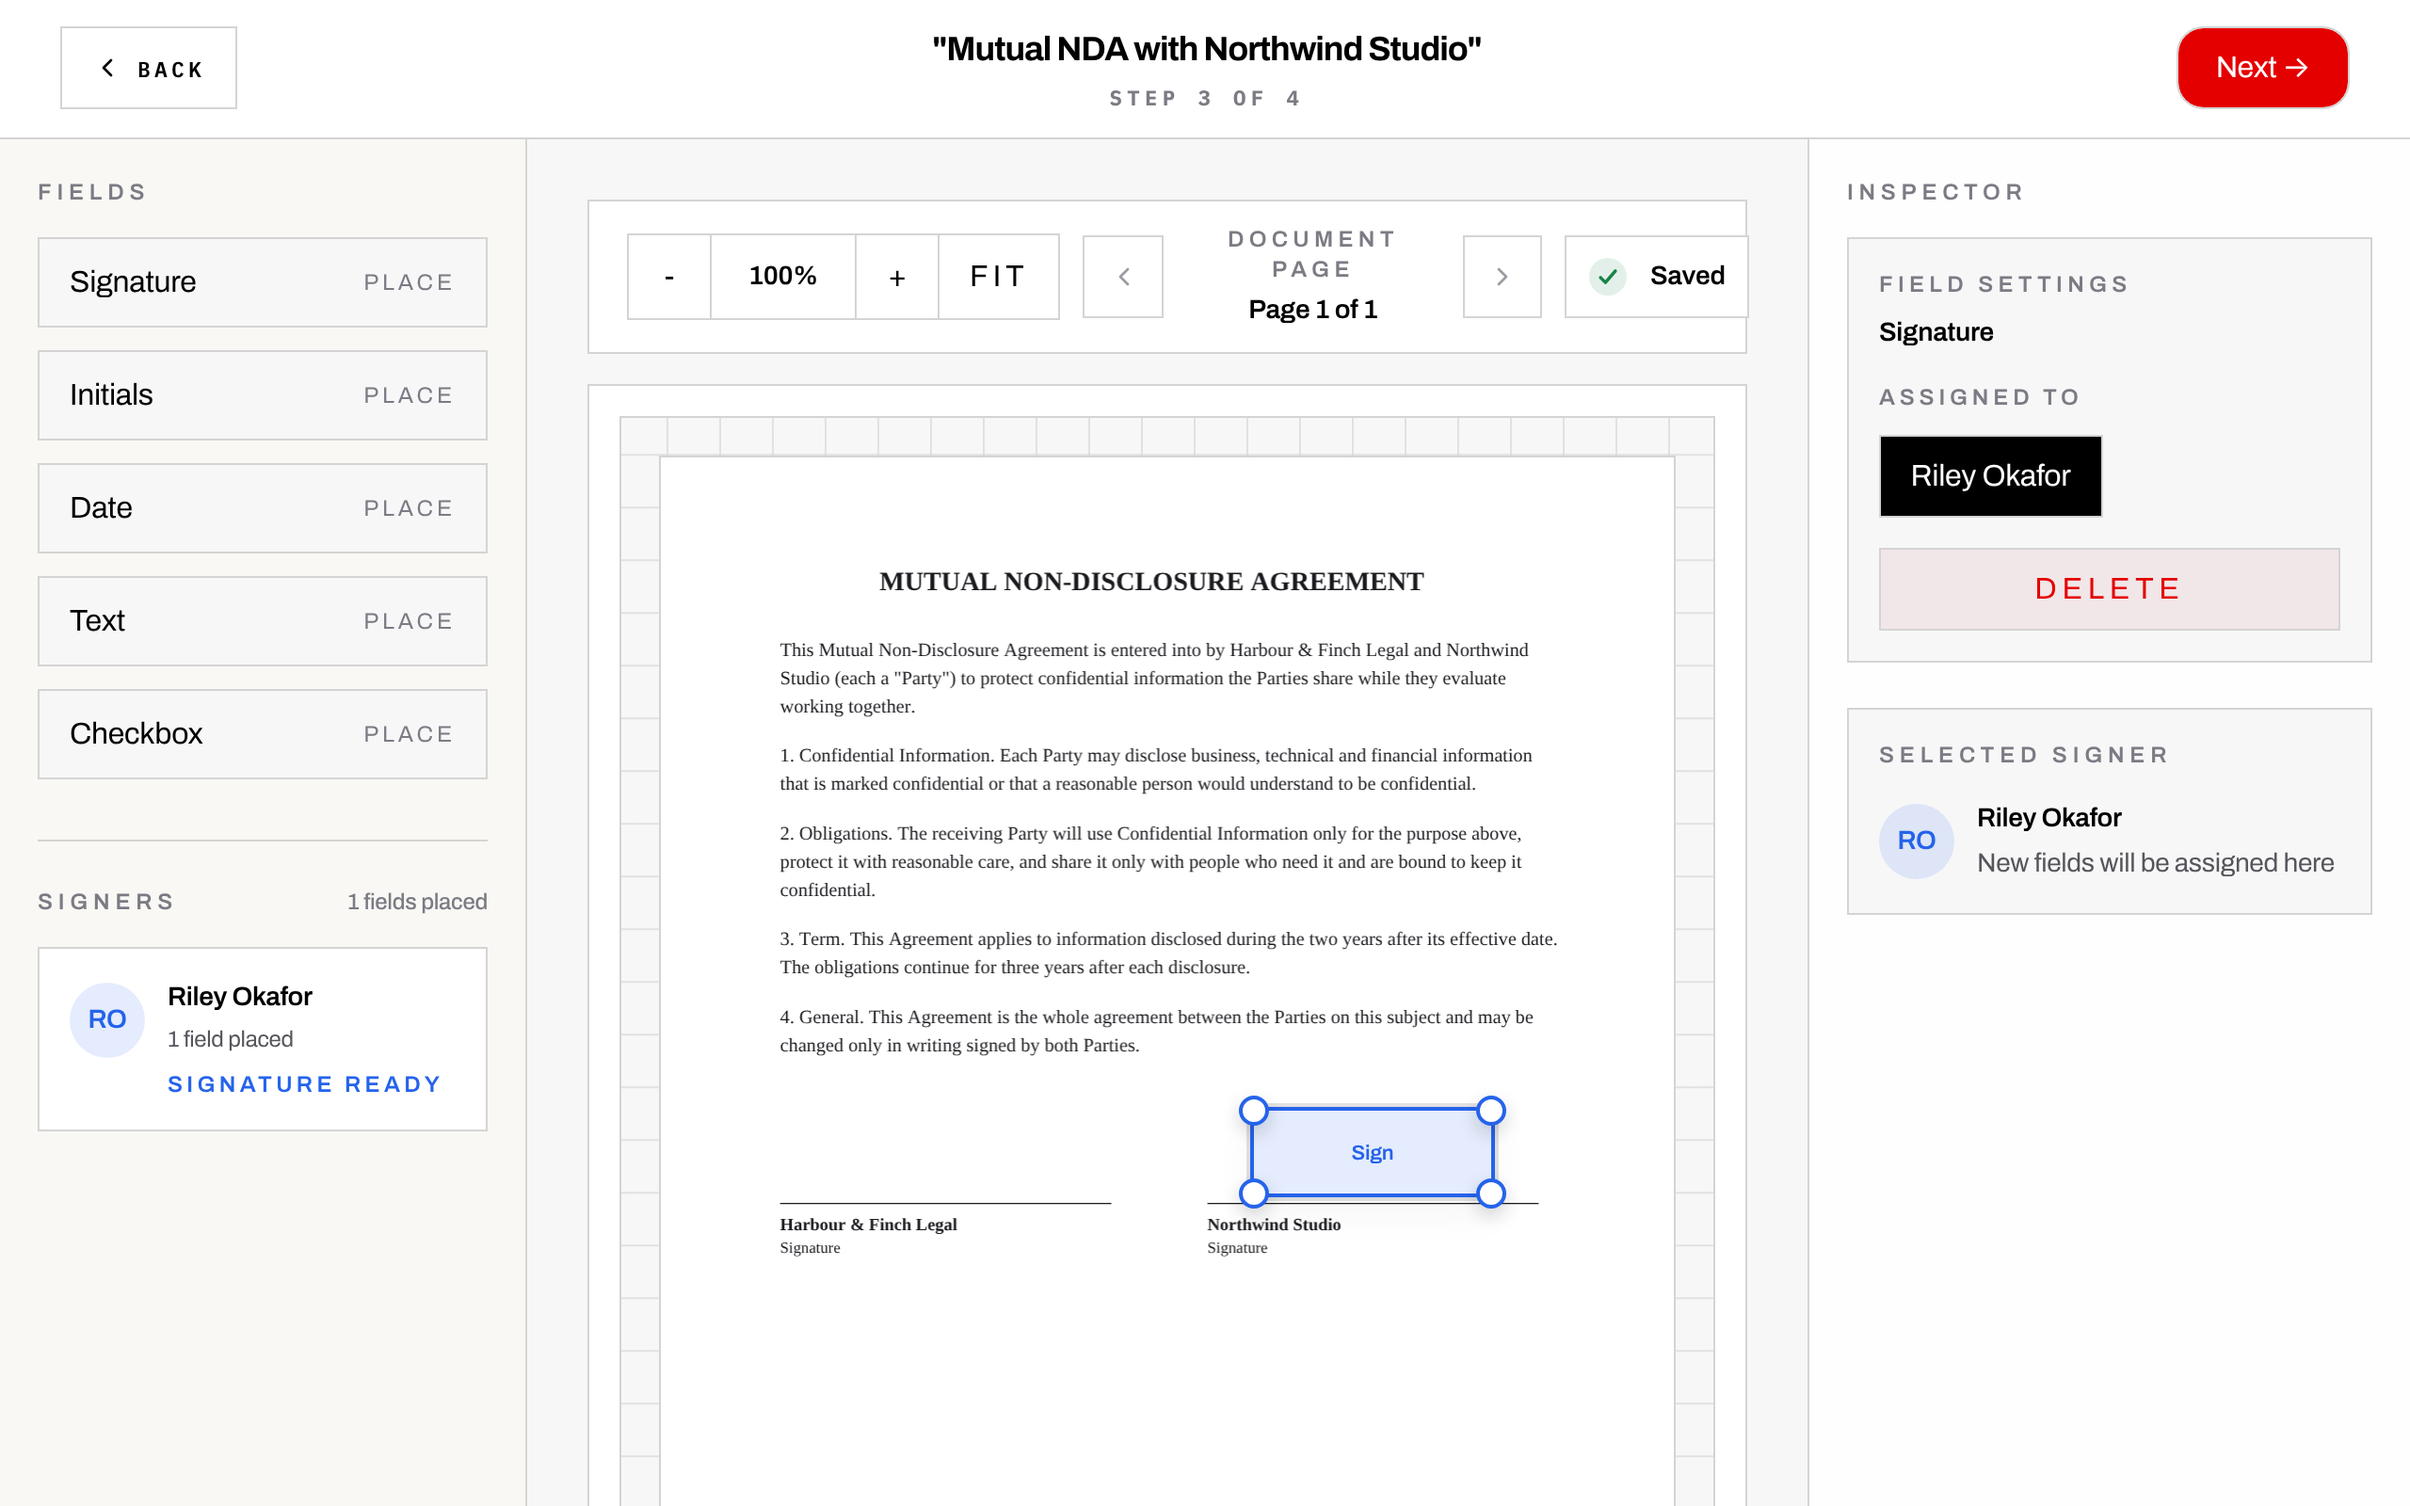
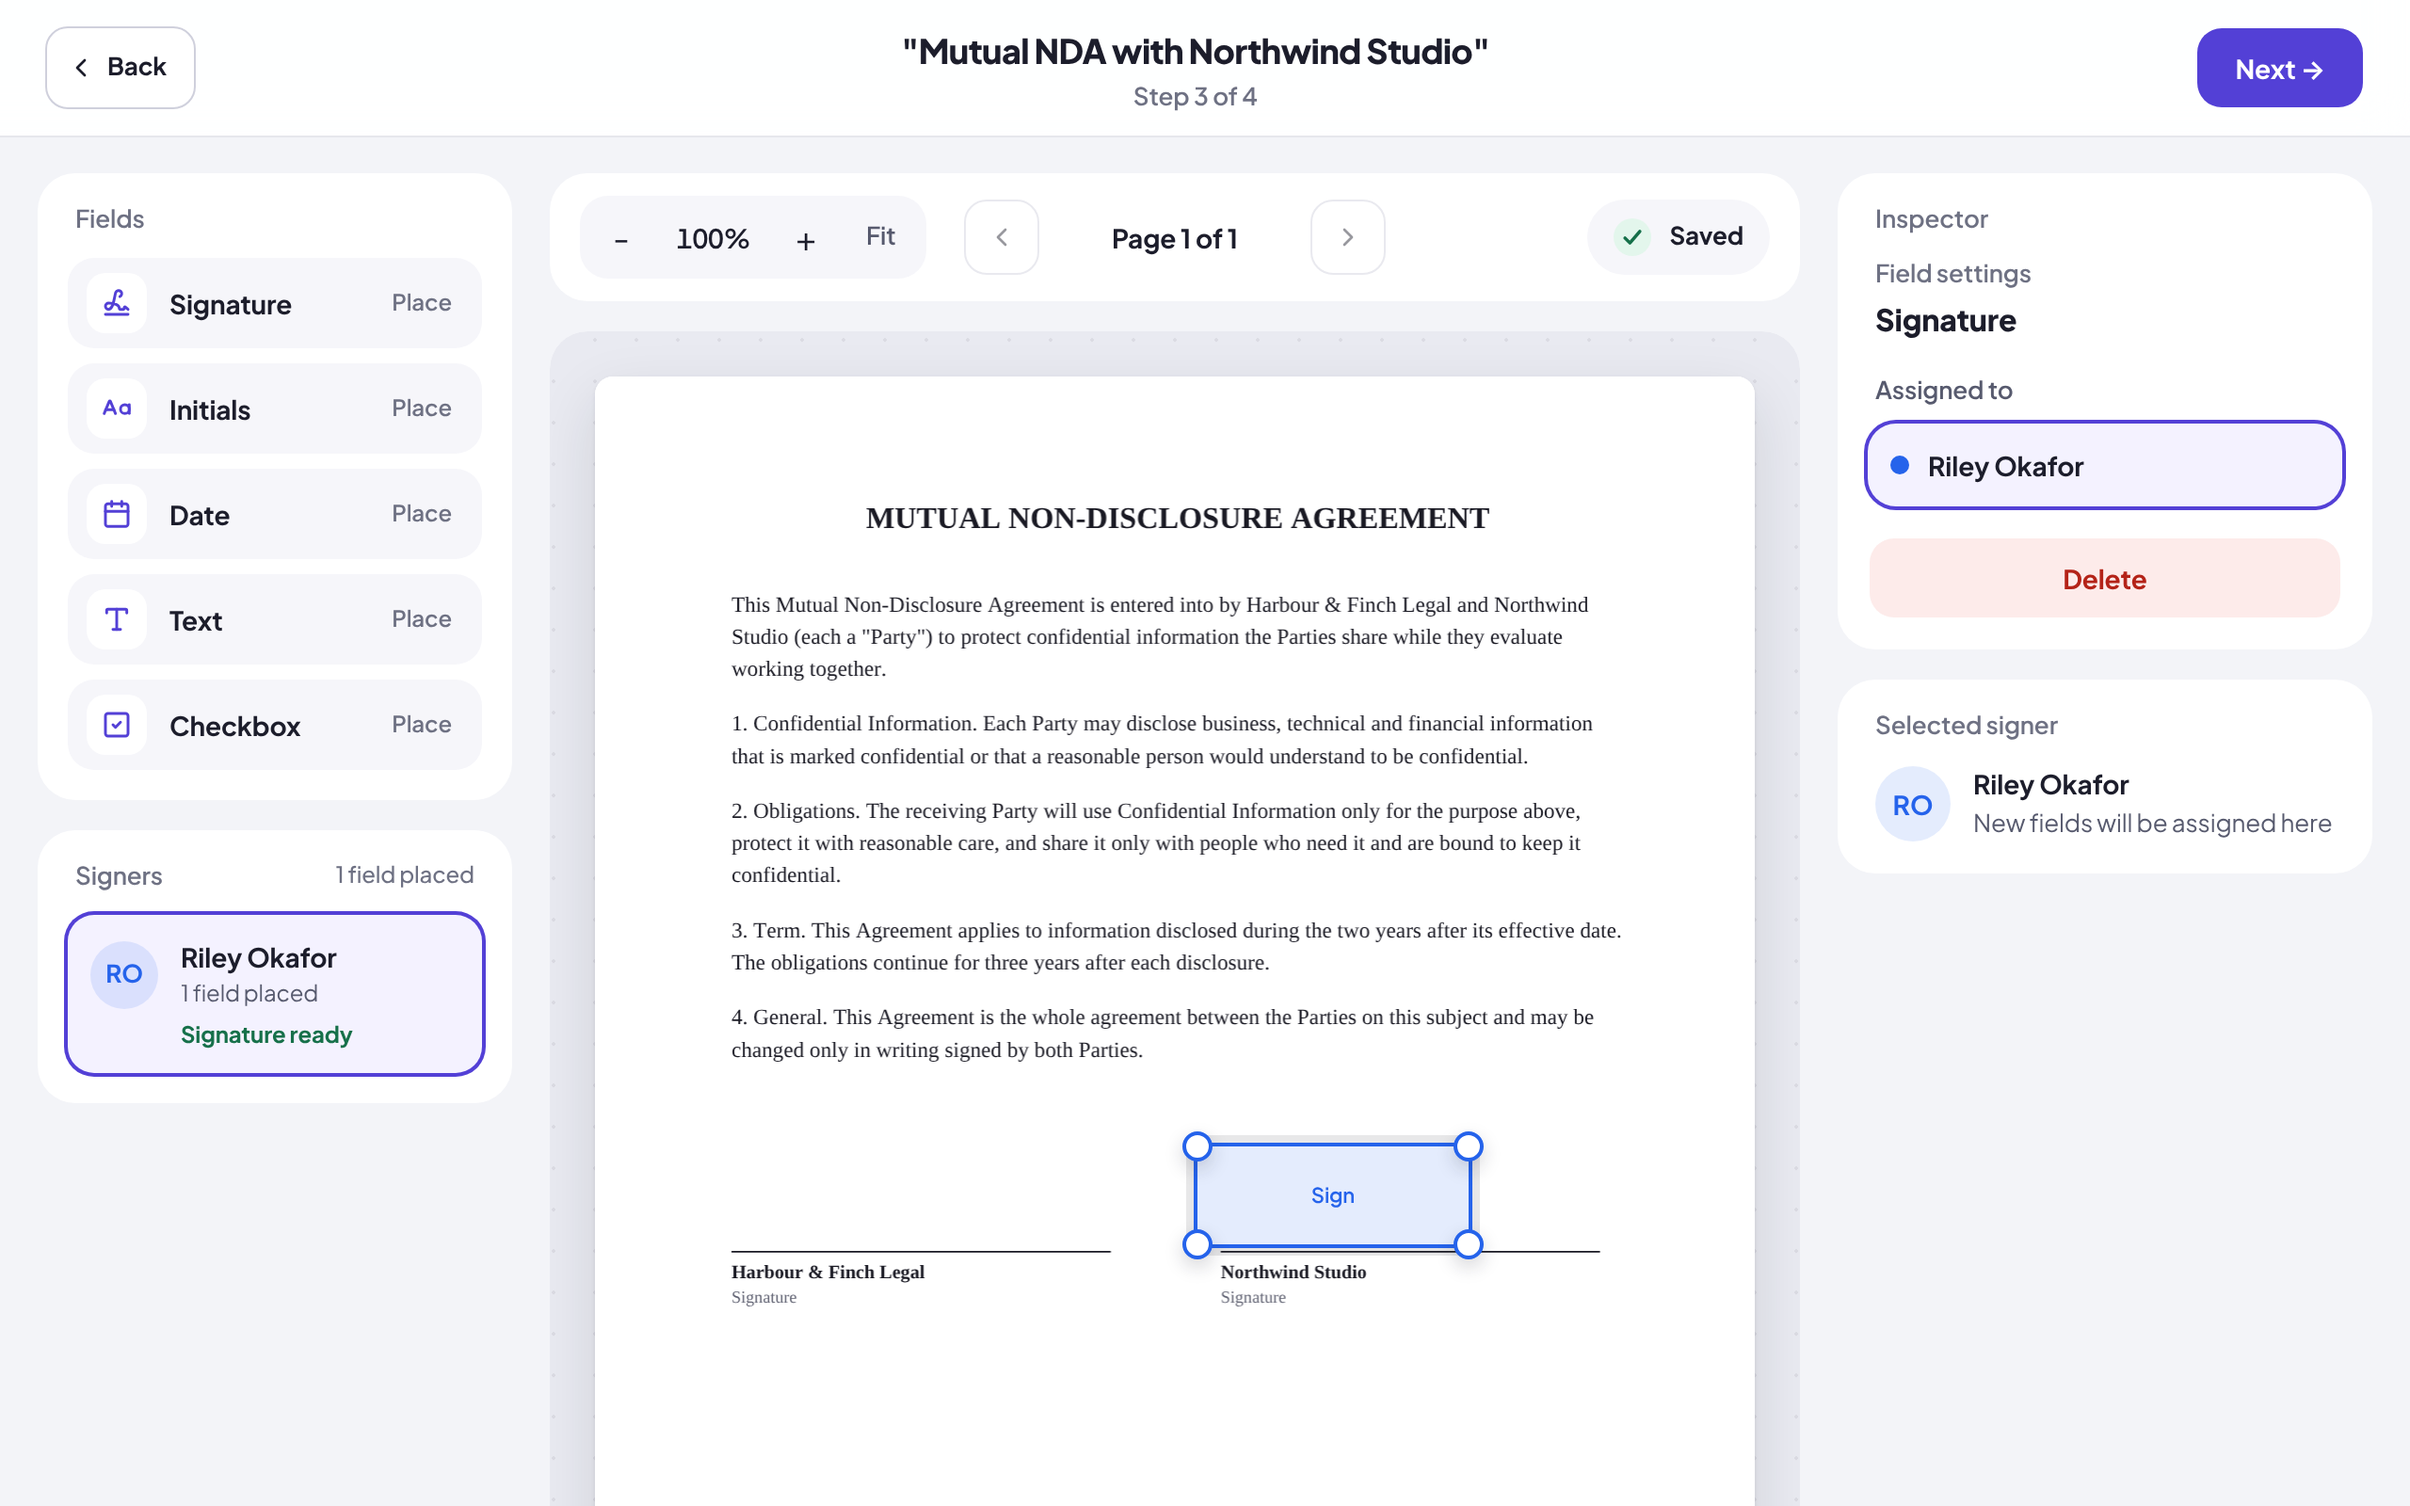
Retake the README screenshots in the new design
The storage note now lists the first-page pictures among what is stored.

Claude-Session: https://claude.ai/code/session_017DYqKFgxNa8t3TFiAJLu31

diff --git a/README.md b/README.md
@@ -167,7 +167,7 @@ The first time you open a new install it takes you to `/setup`. There you name y
 
 ### Storage
 
-Documents, signed PDFs, audit certificates, and drawn signature images are stored in one of two places:
+Documents, signed PDFs, audit certificates, drawn signature images, and the small first-page pictures shown on the dashboard are stored in one of two places:
 
 - **Vercel Blob**, in a private store. This is used whenever a Blob store is connected to the project (Vercel sets `BLOB_READ_WRITE_TOKEN`, or `BLOB_STORE_ID` for a store that signs in with the project's OIDC token), and always on Vercel. Nothing in the store has a public URL; every download goes through the app, which checks who is asking first.
 - **Local disk**, under `.data/storage` (change it with `STORAGE_LOCAL_DIR`). This is the default everywhere else, including local development.
